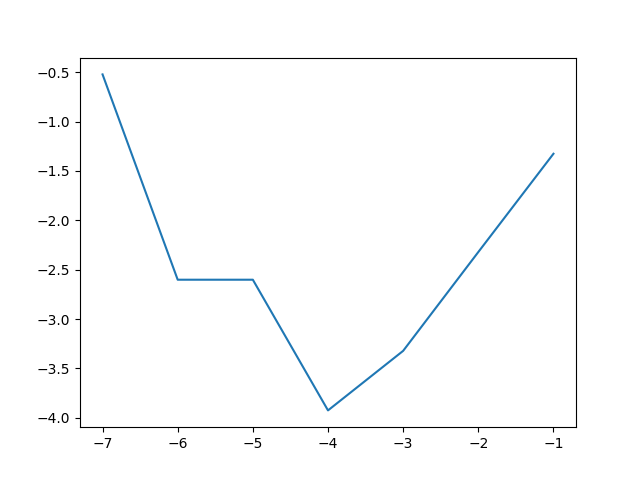
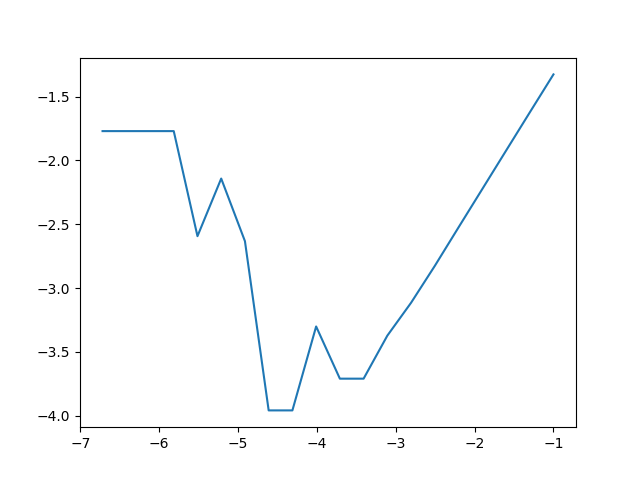
feat: smaller h interval

diff --git a/zad1/program.py b/zad1/program.py
@@ -5,6 +5,8 @@ import matplotlib.pyplot as plt
 precision = np.float64
 # 7 or 16
 hRange = 16
+# 'a' or 'b'
+equation = 'a'
 
 
 def f(x):
@@ -36,15 +38,22 @@ print("derivative: ", str(deriv), )
 xAxis = []
 yAxis = []
 
-for i in range(1, hRange+1):
-    hVal = precision(1) / np.power(precision(10), precision(i))
+limit = precision(1) / np.power(precision(10), precision(hRange))
+hVal = precision(1) / precision(10)
+
+while hVal > limit:
     aproxA = przybA(pointX, hVal)
     epsiA = epsilon(pointX, hVal, przybA)
     aproxB = przybB(pointX, hVal)
     epsiB = epsilon(pointX, hVal, przybB)
     print("h=", str(hVal), "|     aproxA: ", str(aproxA), "|     epsiA: ", str(epsiA), "|    aproxB: ", str(aproxB), "|     epsiB: ", str(epsiB))
     xAxis.append(np.log10(hVal))
-    yAxis.append(np.log10(epsiA))
+    if equation == 'a':
+        yAxis.append(np.log10(epsiA))
+    else:
+        yAxis.append(np.log10(epsiB))
+
+    hVal = hVal / precision(2)
 
 plt.plot(xAxis, yAxis)
 plt.show()
